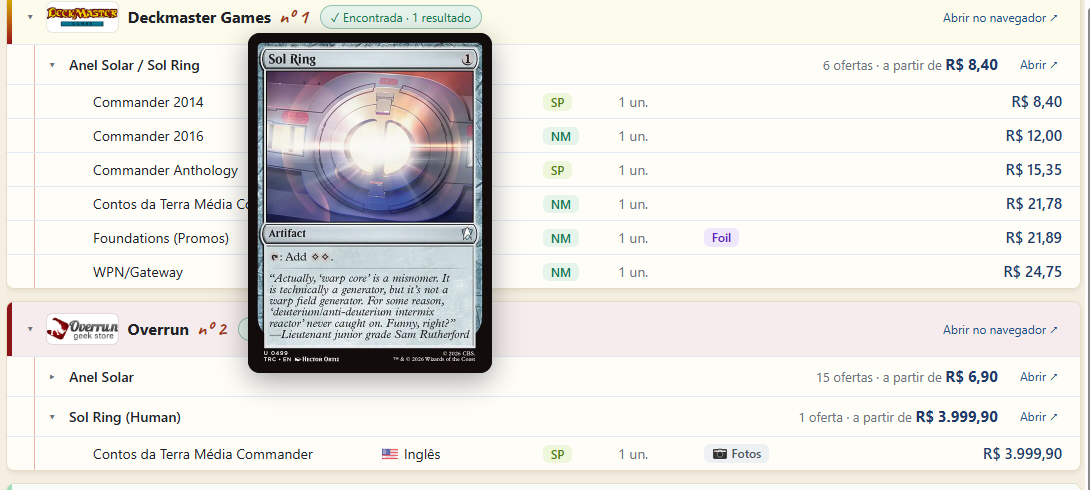
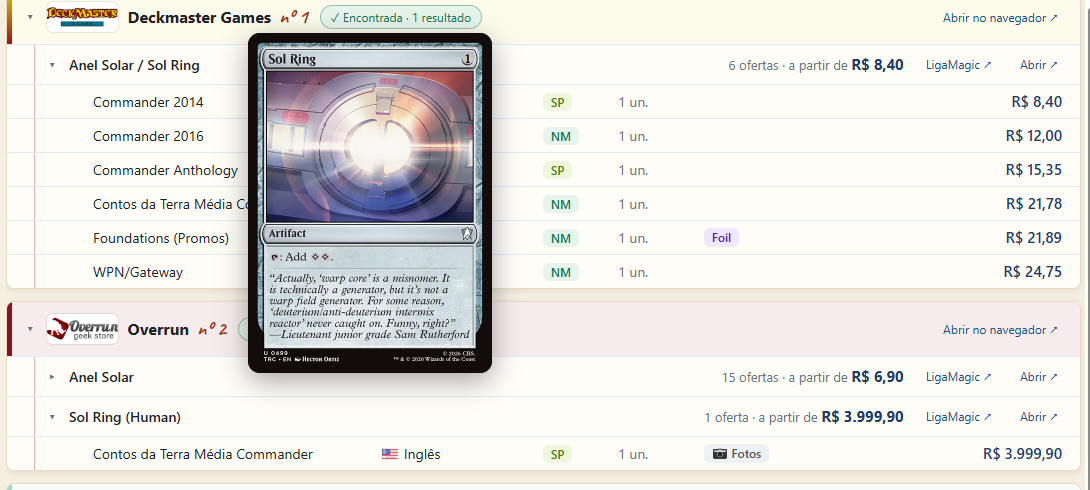
Imagens do README com a versão na tela e o botão da LigaMagic

Changed region(s): [[0.655, 0.8265, 0.9358, 0.8878], [0.655, 0.7347, 0.9358, 0.7959], [0.655, 0.1224, 0.9358, 0.1531]]

diff --git a/docs/ROTEIRO.md b/docs/ROTEIRO.md
@@ -12,7 +12,7 @@
 - Caixa "Apenas nome exato" (Scryfall para nomes em inglês e português).
 - Botão "Colar nome", Voltar e Avançar (resultados com mais de 30 min são refeitos), Ctrl+Backspace, janela centralizada e adaptada à tela.
 - Aviso na tela para itens com detalhes sob demanda; "Recolher/Expandir listas".
-- Versão na tela: "versão X.Y.Z" embaixo da lousa e no título da janela, para saber a versão de quem manda um print (nov/2026, ramificação `versao-na-tela`). As imagens do README ainda não mostram essa linha; refazer na próxima vez que forem atualizadas.
+- Versão na tela: "versão X.Y.Z" embaixo da lousa e no título da janela, para saber a versão de quem manda um print (nov/2026, ramificação `versao-na-tela`). As imagens do README foram refeitas na ramificação `ligamagic`, já com a versão e o botão "LigaMagic ↗".
 - Pré-venda: as lojas marcam com um "P" verde, com a previsão de envio no `title` ("Data de previsão de envio do item: 13/11/2026"). O programa lê o "P" na lista de busca (item com alguma oferta em pré-venda) e em cada oferta da página do produto, e mostra em verde: "(P)" no nome e "pré-venda, envio DD/MM/AAAA" na coluna Situação (no painel, "(pré-venda)" na edição e a data em Extras) (nov/2026, fixtures `produto_pre_venda` e `busca_lista_pre_venda`, Anel Solar da Star Trek Commander na Overrun).
 
 ## Decisões tomadas
